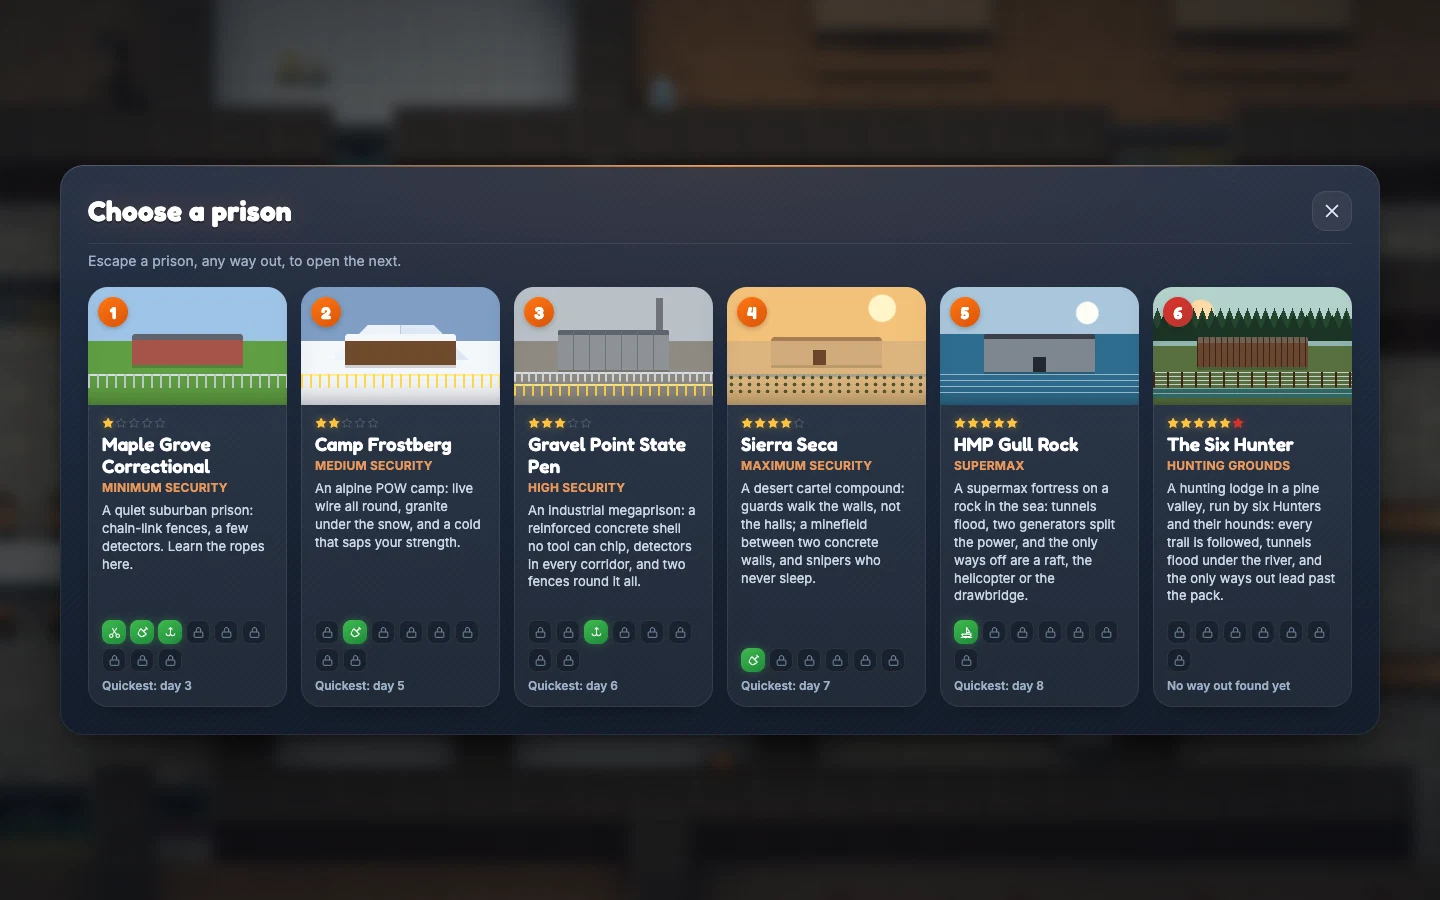
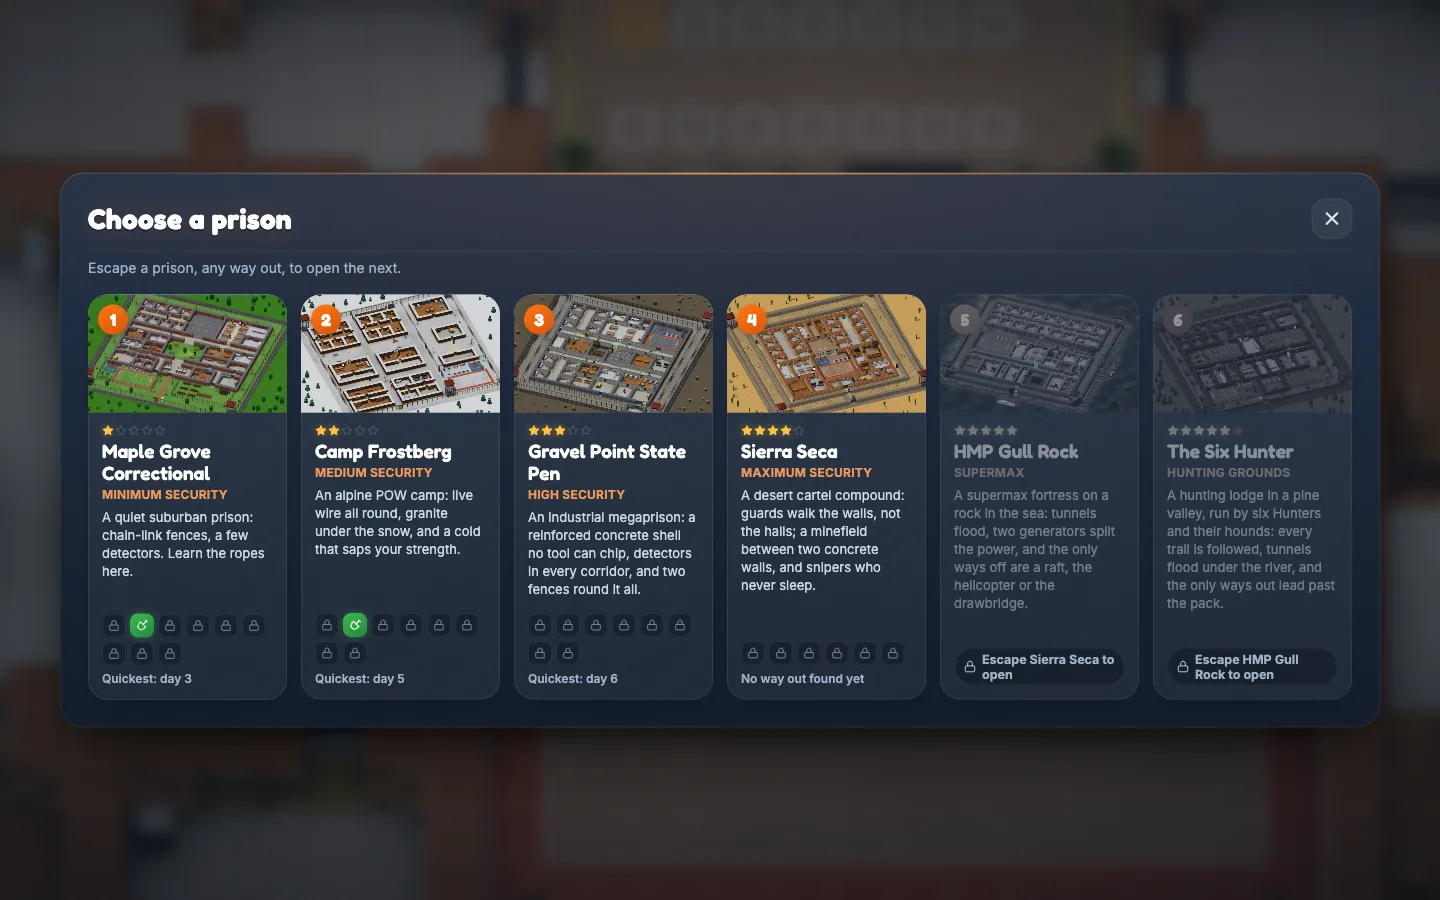
The prison cards in 3D: each prison rendered by the game from a low angle in its own light (cardshot.ts, public/prisons/), in Choose a prison and the Daily's card; locked dimmed and grey, a slow drift on hover; the README's picture retaken (101 tests green)

diff --git a/scripts/dev/cardshot.ts b/scripts/dev/cardshot.ts
@@ -1,0 +1,111 @@
+// Dev tool, run in the browser on the dev server (not by tsx): each prison card's picture in Choose a prison
+// (2.63.1), the whole prison from a low angle in its own light, rendered by the game itself, the HUD hidden.
+// Needs scripts/dev/shotsink.ts running (it writes public/prisons/<prison>.webp). Open the dev build at a
+// 1280×800 viewport (device pixel ratio 1), in an isolated profile, then in its console:
+//   const c = await import('/scripts/dev/cardshot.ts');
+//   await c.look('frostberg');   // one staged and held, for a look (c.stop() after)
+//   await c.send();              // every card's picture taken and sent (or c.send(['gull-rock']))
+// Each is staged as the trailer stages its shots (trailer.ts): an escape bot's run at a moment, the
+// camera put where the card's `cam` says.
+import { SHOTS, type Shot } from './helpshot';
+import { hold, stop, type Cut } from './trailer';
+import type { Sim } from '../../src/sim/Sim';
+import type { View } from '../../src/render/View';
+
+/** The picture's size: the cards show it cropped (a banner on wide screens, a strip on phones). */
+export const PIC_W = 640;
+export const PIC_H = 400;
+
+/** The moment the game's clock reaches this minute of the day. */
+const minute = (m: number) => (s: Sim) => s.clock.minuteOfDay >= m && s.clock.minuteOfDay < m + 60;
+
+interface Card {
+  shot: Shot;
+  /** The tile looked at (the prison's middle), the zoom, the turn and the tilt (trailer.ts's `Cam`). */
+  at: [number, number];
+  zoom: number;
+  turn: number;
+  tilt: number;
+}
+
+/** Each prison's picture: the user's picks (2026-11-18): the whole prison, angled, each in its own light. */
+export const CARDS: Record<string, Card> = {
+  // A sunny morning.
+  'maple-grove': {
+    shot: { prison: 'maple-grove', route: 'cutout', when: minute(9 * 60 + 30), light: 570 },
+    at: [32, 30],
+    zoom: 0.32,
+    turn: 0.35,
+    tilt: 0.32,
+  },
+  // In the snow, at noon (on the surface: the weather lesson's moment is down its tunnel).
+  frostberg: {
+    shot: { prison: 'frostberg', route: 'tunnel', when: minute(12 * 60), light: 720 },
+    at: [32, 30],
+    zoom: 0.32,
+    turn: -0.35,
+    tilt: 0.32,
+  },
+  // A flat grey noon.
+  'gravel-point': {
+    shot: { prison: 'gravel-point', route: 'rooftop', when: minute(12 * 60), light: 700 },
+    at: [32, 30],
+    zoom: 0.32,
+    turn: 0.35,
+    tilt: 0.32,
+  },
+  // Hot late light.
+  'sierra-seca': { shot: { ...SHOTS.mines, zoom: undefined, light: 1060 }, at: [32, 30], zoom: 0.32, turn: -0.35, tilt: 0.32 },
+  // The rock in the sea, the raft leaving it.
+  'gull-rock': { shot: { ...SHOTS.island, zoom: undefined, dx: undefined, light: 690 }, at: [32, 30], zoom: 0.32, turn: 0.35, tilt: 0.32 },
+  // Evening in the valley (its own dusk is too dark to read on a card).
+  'six-hunter': {
+    shot: { prison: 'six-hunter', route: 'glider', when: minute(17 * 60), light: 1110 },
+    at: [32, 30],
+    zoom: 0.32,
+    turn: -0.35,
+    tilt: 0.32,
+  },
+};
+
+const cutOf = (id: string): Cut => {
+  const c = CARDS[id];
+  return { id, beats: 1, tempo: 1, shot: c.shot, pre: 1.5, cam: () => ({ at: c.at, zoom: c.zoom, turn: c.turn, tilt: c.tilt }) };
+};
+
+const view = () => (window as unknown as { __view: View }).__view;
+
+/** One prison staged and held (the camera settled), for a look: stop() after. */
+export const look = (id: string) => hold(cutOf(id));
+export { stop };
+
+/** The frame on screen, cropped to the picture's shape from its middle and scaled to PIC_W × PIC_H. */
+function picture(): HTMLCanvasElement {
+  const src = view().renderer.domElement;
+  const out = document.createElement('canvas');
+  out.width = PIC_W;
+  out.height = PIC_H;
+  const g = out.getContext('2d')!;
+  const k = Math.min(src.width / PIC_W, src.height / PIC_H);
+  const w = PIC_W * k;
+  const h = PIC_H * k;
+  g.drawImage(src, (src.width - w) / 2, (src.height - h) / 2, w, h, 0, 0, PIC_W, PIC_H);
+  return out;
+}
+
+/** Every card's picture (or those named) taken and sent to shotsink as public/prisons/<id>.webp. */
+export async function send(ids = Object.keys(CARDS)) {
+  const sizes: Record<string, number> = {};
+  try {
+    for (const id of ids) {
+      await look(id);
+      const blob = await new Promise<Blob>((done) => picture().toBlob((b) => done(b!), 'image/webp', 0.8));
+      const res = await fetch(`http://127.0.0.1:5311/?name=${id}.card.webp`, { method: 'POST', body: blob });
+      if (!res.ok) throw new Error(`${id}: shotsink said ${res.status}`);
+      sizes[id] = Math.round(blob.size / 1000);
+    }
+  } finally {
+    stop();
+  }
+  return sizes;
+}

diff --git a/scripts/dev/shotsink.ts b/scripts/dev/shotsink.ts
@@ -1,6 +1,6 @@
 // Dev tool: receives How to play's pictures from helpshot.ts in the dev build and writes them to
 // public/help/, and the map viewer's in-game pictures from mapshot.ts (and their frames' numbers)
-// to assets/maps/ (the browser can't write files). Run: npx tsx scripts/dev/shotsink.ts (port 5311).
+// to assets/maps/, and the prison cards' pictures from cardshot.ts to public/prisons/ (the browser can't write files). Run: npx tsx scripts/dev/shotsink.ts (port 5311).
 // It may already be running from an earlier session (check the port; restart it if its code changed
 // since). `npm run preview` uses 5311 too. It accepts pictures from http://localhost:5310 only, so
 // take them on the main checkout's dev server, not a worktree's.
@@ -9,16 +9,20 @@ import { createServer } from 'node:http';
 
 const DIR = 'public/help';
 const MAPS = 'assets/maps';
+/** 2.63.1: each prison card's picture (cardshot.ts), sent as <prison>.card.webp. */
+const CARDS = 'public/prisons';
 mkdirSync(DIR, { recursive: true });
+mkdirSync(CARDS, { recursive: true });
 /** A help picture, or a map viewer's in-game picture and its frame (N-<prison>-game, N-<prison>-outside-game). */
 const HELP = /^[a-z]+\.webp$/;
 const MAP = /^[0-9]-[a-z-]+-(game|outside-game)\.(webp|json)$/;
+const CARD = /^[a-z-]+\.card\.webp$/;
 createServer((req, res) => {
   res.setHeader('Access-Control-Allow-Origin', 'http://localhost:5310');
   res.setHeader('Access-Control-Allow-Headers', 'content-type');
   if (req.method === 'OPTIONS') return void res.end();
   const name = new URL(req.url ?? '', 'http://localhost').searchParams.get('name') ?? '';
-  if (req.method !== 'POST' || !(HELP.test(name) || MAP.test(name))) {
+  if (req.method !== 'POST' || !(HELP.test(name) || MAP.test(name) || CARD.test(name))) {
     res.statusCode = 400;
     return void res.end('POST ?name=<id>.webp or ?name=N-<prison>-game.webp');
   }
@@ -26,7 +30,8 @@ createServer((req, res) => {
   req.on('data', (c: Buffer) => parts.push(c));
   req.on('end', () => {
     const body = Buffer.concat(parts);
-    writeFileSync(`${MAP.test(name) ? MAPS : DIR}/${name}`, body);
+    const to = CARD.test(name) ? `${CARDS}/${name.replace('.card', '')}` : `${MAP.test(name) ? MAPS : DIR}/${name}`;
+    writeFileSync(to, body);
     console.log(`${name}: ${Math.round(body.length / 1000)} kB`);
     res.end('ok');
   });

diff --git a/src/ui/screens/prisons.ts b/src/ui/screens/prisons.ts
@@ -14,6 +14,13 @@ export const prisonName = (def: PrisonDef) => t(`prison.${def.id}` as Key);
 export const securityOf = (def: PrisonDef) => t(`security.${def.difficulty}` as Key);
 
 /**
+ * The card's picture (2.63.1): the whole prison from a low angle in its own light, rendered by the game
+ * (scripts/dev/cardshot.ts, public/prisons/). The drawn scene under it shows if it fails to load.
+ */
+export const scenePic = (def: PrisonDef) =>
+  `<img class="pc-pic" src="./prisons/${def.id}.webp" alt="" width="640" height="400" decoding="async">`;
+
+/**
  * A prison's level as stars: five, lit up to its difficulty; past the campaign's five (the Six Hunter, level 6), a
  * star more, in the Hunters' red (`.past`), so the sixth reads as beyond the scale rather than one of six.
  */
@@ -46,7 +53,7 @@ export function showPrisons(click: () => void): Promise<PrisonDef | null> {
       : `<span class="pc-lock">${icon('lock', 14)}${t('prisons.locked', { name: prisonName(PRISONS[k - 1]) })}</span>`;
     // Locked cards stay focusable (aria-disabled), so a keyboard can reach what opens them.
     return `<button class="prison-card theme-${def.theme ?? 'suburban'}${open ? '' : ' locked'}" data-k="${k}" ${open ? '' : 'aria-disabled="true"'} style="--i:${k}">
-      <span class="pc-scene" aria-hidden="true"><span class="pc-level${def.difficulty > 5 ? ' past' : ''}">${k + 1}</span></span>
+      <span class="pc-scene" aria-hidden="true">${scenePic(def)}<span class="pc-level${def.difficulty > 5 ? ' past' : ''}">${k + 1}</span></span>
       <span class="pc-body">
         <span class="pc-head"><b>${prisonName(def)}</b><span class="pc-stars" aria-hidden="true">${stars}</span></span>
         <small class="pc-sec">${securityOf(def)}</small>

diff --git a/src/ui/screens/daily.ts b/src/ui/screens/daily.ts
@@ -8,7 +8,7 @@ import { h, TOUCH } from '../dom';
 import { icon } from '../icons';
 import { medalDisc, routeIcon } from './trophies';
 import { earnedRow } from './escaped';
-import { prisonName, securityOf, starsOf } from './prisons';
+import { prisonName, scenePic, securityOf, starsOf } from './prisons';
 
 /**
  * The Daily Escape's screens (P26): the day's card (the prison, the twists, the tries so far,
@@ -148,7 +148,7 @@ export function showDaily(info: DailyInfo, click: () => void): Promise<DailyChoi
       <div class="dc-cols"><div class="dc-left">
       ${tabs}
       <p class="daily-when"><b>${t('daily.name', { n: n + 1 })}</b><span>${dailyDay(n)}</span>${n < info.today ? `<em>${t('daily.lateNote')}</em>` : ''}</p>
-      <div class="daily-prison theme-${d.prison.theme ?? 'suburban'}"><span class="pc-scene" aria-hidden="true"></span><span class="dp-text"><b>${prisonName(d.prison)}</b><small>${securityOf(d.prison)}</small></span><span class="pc-stars" aria-hidden="true">${stars}</span></div>
+      <div class="daily-prison theme-${d.prison.theme ?? 'suburban'}"><span class="pc-scene" aria-hidden="true">${scenePic(d.prison)}</span><span class="dp-text"><b>${prisonName(d.prison)}</b><small>${securityOf(d.prison)}</small></span><span class="pc-stars" aria-hidden="true">${stars}</span></div>
       <ul class="daily-twists" aria-label="${t('daily.twists')}">${twistRows(d.twists)}</ul>
       </div><div class="dc-right">
       ${bestRow}

diff --git a/scripts/helptest.ts b/scripts/helptest.ts
@@ -1,7 +1,7 @@
 /**
  * How to play (P37): every topic's words are there in both languages, in the same shape (as many
  * steps, chips and lines in French as in English); every item, recipe, icon, lesson, prison and
- * topic it names exists; every picture is in public/help/. Prints how the guide reads: how many
+ * topic it names exists; every picture is in public/help/ (and each prison card's in public/prisons/). Prints how the guide reads: how many
  * words on each page before the fine print, against the old paragraphs.
  */
 import { existsSync, statSync } from 'node:fs';
@@ -114,6 +114,12 @@ for (const key of Object.keys(E)) {
     bad(`help.oddjobs.nums: the pay is $${lo}–${hi}, the fixer's up to $${fixer}`);
   if (!F['help.oddjobs.nums']?.includes(`${lo}–${hi}\u202f$|`) || !F['help.oddjobs.nums']?.includes(`${fixer}\u202f$`))
     bad(`help.oddjobs.nums (fr): the pay is ${lo}–${hi} $, the fixer's up to ${fixer} $`);
+}
+// 2.63.1: each prison card's picture (Choose a prison, the Daily's card): there, and small.
+for (const def of PRISONS) {
+  const f = `public/prisons/${def.id}.webp`;
+  if (!existsSync(f)) bad(`${def.id}: no card picture ${f} (scripts/dev/cardshot.ts)`);
+  else if (statSync(f).size > 90_000) bad(`${f}: ${Math.round(statSync(f).size / 1000)} kB, over 90`);
 }
 if (problems.length) throw new Error(problems.join('\n'));
 console.log(

diff --git a/src/styles/13-campaign.css b/src/styles/13-campaign.css
@@ -130,6 +130,31 @@
   transform: scale(0.98);
 }
 
+/*
+ * The card's picture (2.63.1): the prison in 3D, filling the scene whatever its shape (a banner on wide screens,
+ * a strip on phones), the drawn scene under it as the fallback. Hovered or focused, it drifts slowly closer.
+ */
+.pc-pic {
+  position: absolute;
+  inset: 0;
+  /* (Over the drawn scene's wall and fence, which are its fallback; under the level's badge.) */
+  z-index: 1;
+  width: 100%;
+  height: 100%;
+  object-fit: cover;
+  transform-origin: 50% 55%;
+  transition: transform 6s cubic-bezier(0.2, 0.6, 0.3, 1);
+}
+
+.prison-card:not(.locked):hover .pc-pic,
+.prison-card:not(.locked):focus-visible .pc-pic {
+  transform: scale(1.08);
+}
+
+body.reduced-motion .pc-pic {
+  transform: none !important;
+}
+
 /* The scene: a strip of the prison's world, its level number on it. */
 .pc-scene {
   position: relative;
@@ -291,7 +316,7 @@
 
 .pc-level {
   position: absolute;
-  z-index: 1;
+  z-index: 2;
   top: 8px;
   left: 8px;
   display: grid;

diff --git a/scripts/dev/trailer.ts b/scripts/dev/trailer.ts
@@ -494,6 +494,9 @@ export async function peek(id: string, u = 0) {
   return at;
 }
 
+/** Any cut (not only the trailer's: cardshot.ts's) staged and held at its first frame, for a picture: stop() after. */
+export const hold = (c: Cut) => shoot(c, 0, 1, false);
+
 /** The page's own clock back, the camera the game's, the title. */
 export function stop() {
   rig(false);

diff --git a/docs/history/v2.60-v2.64.md b/docs/history/v2.60-v2.64.md
@@ -156,3 +156,19 @@ and what was accepted as it is. From 2.35 a file holds five minor versions.
     copy as a GitHub attachment, both in the README.
   - **Not checked:** a real trademark search (US, EU); the old YouTube film unlisted (the user's); the
     icons carry no text, so nothing changed there.
+- **The prison cards in 3D (v2.63.1, not released yet)**, the user's request (2026-11-18: "polish the Choose a
+  prison [...] top card of each prison should be a 3D view and not the ugly 2D").
+  - **Choices:** the user's: the whole prison from a low angle; each in its own light (Maple Grove a sunny
+    morning, Frostberg snow at noon, Gravel Point a flat grey noon, Sierra Seca hot late light, Gull Rock in its
+    sea, the Six Hunter an evening in the pines); a locked card's picture dimmed and grey under its padlock; a
+    slow drift closer on hover or focus, none with reduced motion.
+  - **Built:** `scripts/dev/cardshot.ts` renders each with the game (the trailer's staging, `hold`), 640×400
+    WebP in `public/prisons/` (46–61 kB each), posted through `shotsink.ts`; `scenePic` puts it in each card of
+    Choose a prison and in the Daily's prison card, over the drawn scene (its fallback). `helptest` checks the
+    six. The README's prison picture (and the install page's copy) retaken.
+  - **Found:** the weather lesson's moment at Frostberg is down its tunnel (a black picture): staged at noon on
+    the surface. The Six Hunter's own dusk is too dark at card size: lit as early evening. The drawn scene's
+    fence was painted over the picture: the picture raised over it, the level's badge over both.
+  - **Seen in the browser:** six across at 1280, three at 1100, phone portrait and landscape, the Daily's
+    card; the drift to 1.08 on focus, none with reduced motion; console clean.
+  - **Not checked:** a real phone; the French (no words changed).

diff --git a/docs/TOOLS.md b/docs/TOOLS.md
@@ -42,6 +42,14 @@ A topic's picture is a `SHOTS` entry in `scripts/dev/helpshot.ts`: a bot's run o
 in the dev build, posted to `public/help/` through the shot sink. A topic seen from the start is
 pictured at Maple Grove. Retake a picture when what it shows changes.
 
+## The prison cards' pictures
+
+Choose a prison's cards (and the Daily's) show each prison in 3D: `CARDS` in `scripts/dev/cardshot.ts` (2.63.1),
+the whole prison from a low angle in its own light, staged as the trailer stages its shots. In the dev build at
+1280×800, isolated: `look(id)` to frame one (`stop()` after), `send()` to post all six through the shot sink
+to `public/prisons/` (640×400 WebP; `helptest` checks they're there and under 90 kB). Retake them when a
+prison's map or look changes.
+
 ## A gamepad without one
 
 `scripts/dev/fakepad.ts` (2.45) plugs a pretend standard gamepad into the dev build: `install('xbox' | 'ps' |

diff --git a/docs/HISTORY.md b/docs/HISTORY.md
@@ -234,3 +234,4 @@ Every release, in order, one line each; the full entry (what changed, what the r
 - City Escape: what its design promised and the build left out (v2.61.0)
 - Another game's names taken out (v2.62.0)
 - The game named Over the Wall (v2.63.0, not released yet)
+- The prison cards in 3D (v2.63.1, not released yet)
